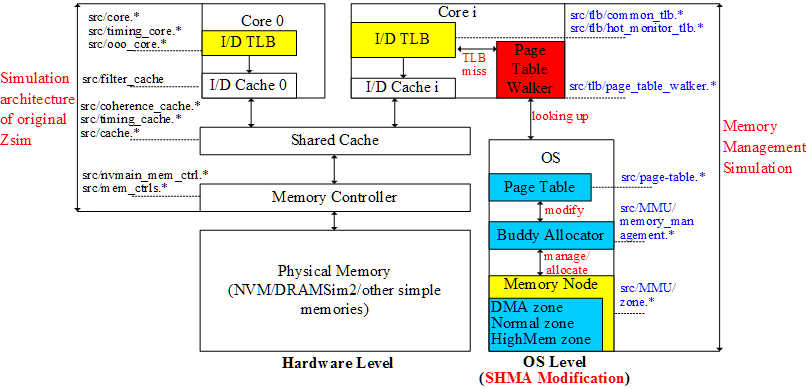
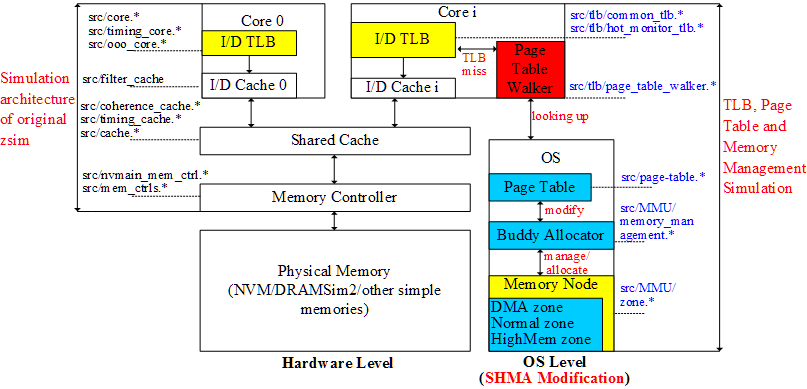
README

Changed region(s): [[0.8984, 0.3702, 1.0, 0.4936], [0.8984, 0.2468, 0.9913, 0.3393], [0.0, 0.3393, 0.062, 0.3702]]

diff --git a/README.md b/README.md
@@ -1,6 +1,6 @@
 # SHMA---Software-managed Caching for Hybrid DRAM/NVM Memory Architectures
 
-SHMA is implemented with zsim and NVMain. Hybrid simulator that integrates cycle-accurate main memory simulator for emerging non-volatile memories --NVMain with zsim can be forked from "https://github.com/AXLEproject/axle-zsim-nvmain". 
+&#160; &#160; &#160; &#160;SHMA is implemented with zsim and NVMain. Hybrid simulator that integrates cycle-accurate main memory simulator for emerging non-volatile memories --NVMain with zsim can be forked from "https://github.com/AXLEproject/axle-zsim-nvmain". 
 Comparing to zsim-nvmain hybrid simulator, SHMA has achieved following functions:
 
  * **Implemented memory management simulations(such as MemoryNode, Zone, BuddyAllocator etc.)**:   Considering that pin-based zsim only replays virtual address into simulation architecture, and 
@@ -22,7 +22,7 @@ memory node, zone and buddy allocator.
 
 
 Modules and architecture of hybrid simulator are shown as following:
-![Image of Yaktocat](https://github.com/cyjseagull/SHMA/blob/master/images/Hybrid_Simulator_Architecture.png)
+![Image of Yaktocat](https://github.com/cyjseagull/SHMA/blob/master/images/simulator_architecture.png)
 
 The research leading to these results has received funding from National high technology research and development program(**863 program**) project corpus, in-memory computing system software research and development project
 
@@ -40,7 +40,8 @@ Additionally, if you use this software in your research, we request that you ref
 
 Setup,Compiling and Configuration
 ------------
-**1.External Dependencies**
+**1.External Dependencies**  
+&#160; &#160; &#160; &#160;Before install hybrid simulator zsim-nvmain, it's essential that you have already install dependencies listing below.
 * gcc(>=4.6)
 * [Intel Pin Toolkit](https://software.intel.com/en-us/articles/pintool-downloads)
 * [libconfig](http://www.hyperrealm.com/libconfig/libconfig-1.5.tar.gz)
@@ -62,12 +63,13 @@ LIBRARY_PATH=$LIBRARY_PATH:$HDF5/lib
 CPLUS_INCLUDE_PATH=$CPLUS_INCLUDE_PATH:$HDF5/include
 export ZSIMPATH PINPATH NVMAINPATH LD_LIBRARY_PATH BOOST CPLUS_INCLUDE_PATH LIBRARY_PATH
 ```
-* compiling
+* compiling and Installation
 ```javascript
 [root @node1 SHMA]# cd zsim-nvmain
 [root @node1 zsim-nvmain]# source env.sh  //init environmental values
 [root @node1 zsim-nvmain]# scons -j16    //compiling
 ```
+
 
 **3.zsim Configuration Keys** (example zsim configuration files is in zsim-nvmain/config directory)
 * **Enable TLB、Page Table and Memory Management Simulation**  
@@ -124,9 +126,17 @@ export ZSIMPATH PINPATH NVMAINPATH LD_LIBRARY_PATH BOOST CPLUS_INCLUDE_PATH LIBR
 **(5) CONFIG_CHANNEL**: configuration file path of every main memory channel;  
 
 
-Memory Management and TLB Simulation Modules
+TLB, Page Table and Memory Management Simulation Modules
 -----------------------
-
+&#160; &#160; &#160; &#160;As described above, original zsim doesn't support OS simulation, and SHMA has added TLB, page table and memory management simulation into zsim, main modification is shown as following picture. The left side marks major code of original zsim corresponding to system simulation, **the right side marks SHMA modifications to zsim for TLB, page table and memory management simulation support.**
 ![Image of Yaktocat](https://github.com/cyjseagull/SHMA/blob/master/images/zsim_modification.png)
+
+Architecture of SHMA(software-managed DRAM Caching)
+---------------------------
+&#160; &#160; &#160; &#160; SHMA has extended both page table and TLB to maintain both mappings from virtual address to physical address and physical address to DRAM cache address, this has brought DRAM cache management into software level, so that DRAM cache can be exploited fully. Besides, SHMA adopts utility-based DRAM caching policy that only fetching hot pages into DRAM cache when its memory pressure in high state to reduce DRAM cache pollution. SHMA supports DRAM cache directly bypass,too. Following picture is the architecture of SHMA.
+![Image of Yaktocat](https://github.com/cyjseagull/SHMA/blob/master/images/SHMA_architecture.png)
+
+Implementations of RBLA and MultiQueue Policies
+----------------------------
 
 
